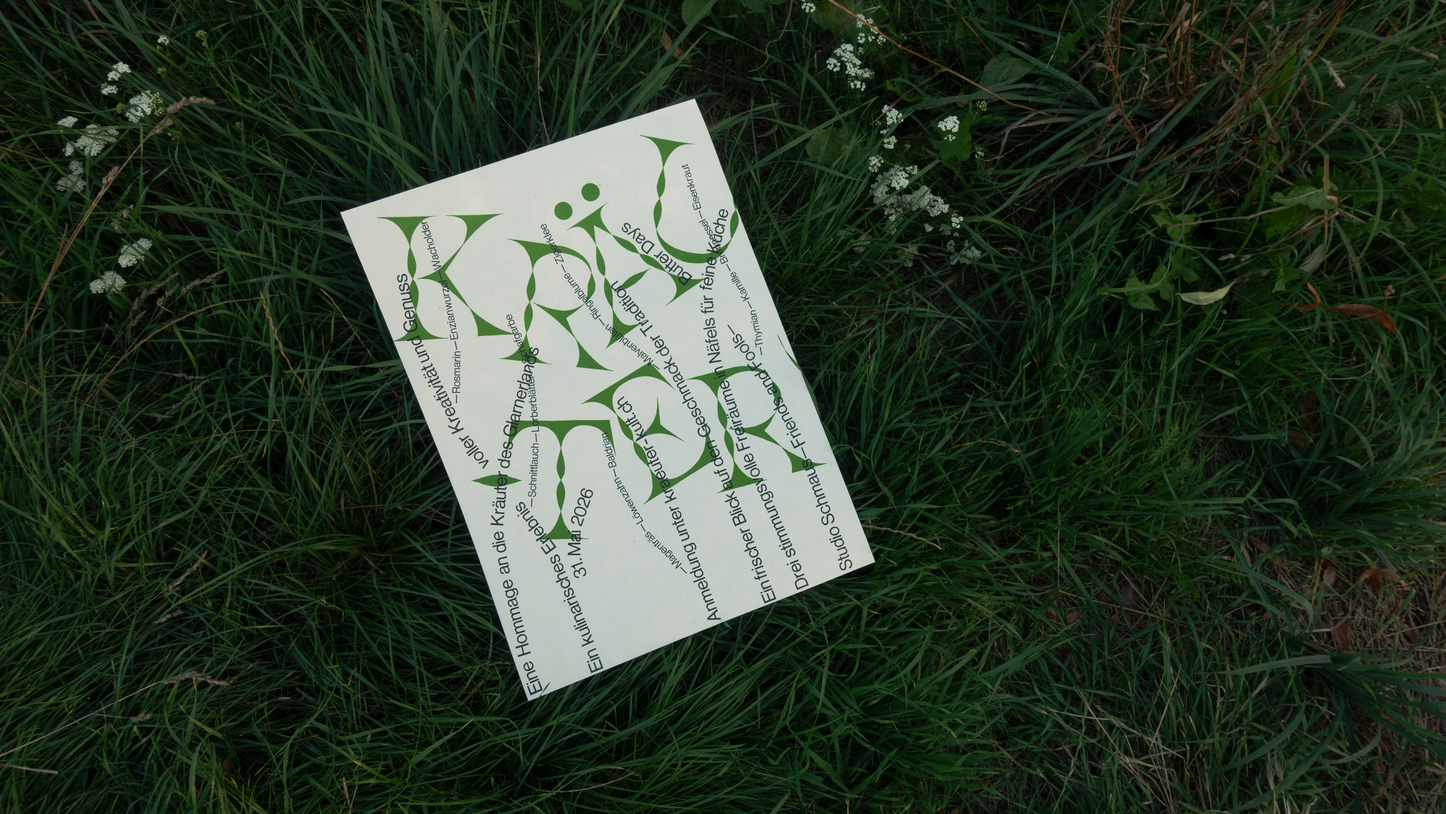
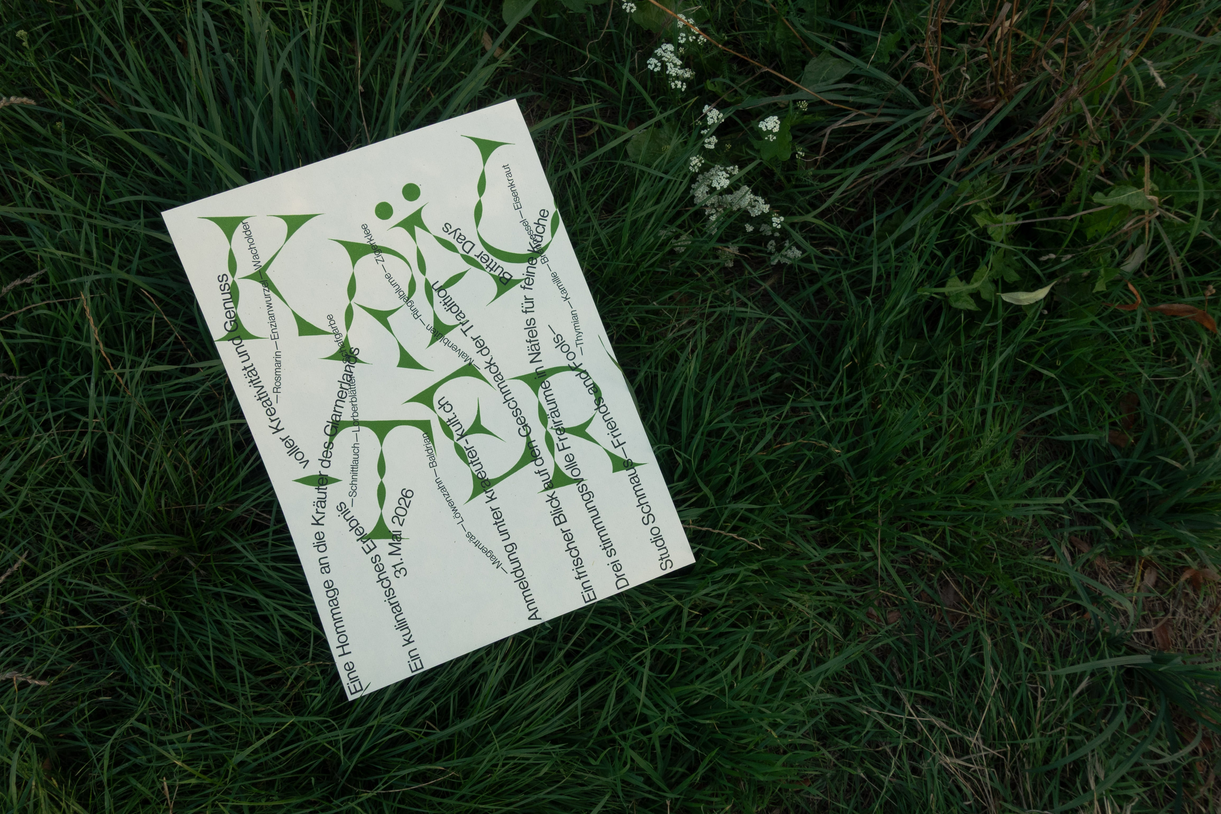
video edit

diff --git a/src/components/detail/StripImage.tsx b/src/components/detail/StripImage.tsx
@@ -2,6 +2,7 @@ import { useEffect, useRef, useState, type CSSProperties, type MouseEvent } from
 import { motion } from "framer-motion";
 import type { ImageSize } from "../../types/project";
 import { useFallbackSrc } from "../../hooks/useFallbackSrc";
+import { useLoopFrom } from "../../hooks/useLoopFrom";
 import { useIsLandscapePhone, useIsMobile } from "../../hooks/useIsMobile";
 import {
   detailFillHeight,
@@ -33,6 +34,8 @@ interface StripImageProps {
   isVideo: boolean;
   // A video with sound: gets a toggle beneath it to unmute.
   hasAudio?: boolean;
+  // Video only: seconds where it opens and loops back to (useLoopFrom).
+  start?: number;
   // Play the page-entrance rise from the bottom on mount.
   rise: boolean;
   // Fires once the media knows its own dimensions (loaded / metadata).
@@ -44,7 +47,7 @@ interface StripImageProps {
   onTap?: () => void;
 }
 
-export function StripImage({ index, src: preferred, original, alt, size, focus = 50, largest, isVideo, hasAudio = false, rise, onReady, aspect, placeholder, focused = false, onTap }: StripImageProps) {
+export function StripImage({ index, src: preferred, original, alt, size, focus = 50, largest, isVideo, hasAudio = false, start = 0, rise, onReady, aspect, placeholder, focused = false, onTap }: StripImageProps) {
   // A phone held sideways sizes its images like desktop: a share of the strip
   // height (its pager shows the desktop metadata band beneath, see
   // ProjectPager), so nothing fills the screen.
@@ -53,6 +56,9 @@ export function StripImage({ index, src: preferred, original, alt, size, focus =
   const isPhonePortrait = isMobile && !isLandscapePhone;
   const { src, isOriginal, fallBack } = useFallbackSrc(preferred, original);
   const onError = isOriginal ? undefined : fallBack;
+  const videoRef = useRef<HTMLVideoElement>(null);
+  // The sound video handles its own start (SoundVideo).
+  useLoopFrom(videoRef, isVideo && !hasAudio ? start : 0, src);
   const [loaded, setLoaded] = useState(false);
   const handleReady = () => {
     setLoaded(true);
@@ -129,6 +135,7 @@ export function StripImage({ index, src: preferred, original, alt, size, focus =
           src={src}
           poster={placeholder}
           alt={alt}
+          start={start}
           inset={isLeadingMobileImage}
           fit={crops ? { objectFit: "cover", objectPosition: position } : undefined}
           onReady={handleReady}
@@ -142,12 +149,13 @@ export function StripImage({ index, src: preferred, original, alt, size, focus =
     return (
       <motion.video
         {...motionProps}
+        ref={videoRef}
         className={imageClass}
         src={src}
         poster={placeholder}
         aria-label={alt}
         muted
-        loop
+        loop={!start}
         autoPlay
         playsInline
         onLoadedMetadata={handleReady}
@@ -178,6 +186,7 @@ interface SoundVideoProps {
   src: string;
   poster?: string;
   alt: string;
+  start: number;
   inset: boolean;
   // The wrapper's crop (StripImage's cropped first image), for the video.
   fit?: CSSProperties;
@@ -185,9 +194,10 @@ interface SoundVideoProps {
   onError?: () => void;
 }
 
-function SoundVideo({ src, poster, alt, inset, fit, onReady, onError }: SoundVideoProps) {
+function SoundVideo({ src, poster, alt, start, inset, fit, onReady, onError }: SoundVideoProps) {
   const videoRef = useRef<HTMLVideoElement>(null);
   const [muted, setMuted] = useState(true);
+  useLoopFrom(videoRef, start, src);
 
   useEffect(() => {
     const onOther = (event: Event) => {
@@ -211,9 +221,9 @@ function SoundVideo({ src, poster, alt, inset, fit, onReady, onError }: SoundVid
     const next = !muted;
     if (!next) {
       // Unmuting is the user's tap, so playback is allowed; start from the top
-      // so the soundtrack is heard from its beginning.
+      // (or the video's set start) so the soundtrack is heard from there.
       video.muted = false;
-      video.currentTime = 0;
+      video.currentTime = start < video.duration ? start : 0;
       void video.play().catch(() => {});
       window.dispatchEvent(new CustomEvent(SOUND_EVENT, { detail: video }));
     }
@@ -230,7 +240,7 @@ function SoundVideo({ src, poster, alt, inset, fit, onReady, onError }: SoundVid
         poster={poster}
         aria-label={alt}
         muted
-        loop
+        loop={!start}
         autoPlay
         playsInline
         onLoadedMetadata={onReady}

diff --git a/src/components/grid/GridImage.tsx b/src/components/grid/GridImage.tsx
@@ -1,6 +1,7 @@
 import { useEffect, useRef, useState, type CSSProperties } from "react";
 import { motion } from "framer-motion";
 import { useFallbackSrc } from "../../hooks/useFallbackSrc";
+import { useLoopFrom } from "../../hooks/useLoopFrom";
 import { gridImageHeight } from "../../utils/imageSize";
 import styles from "./GridImage.module.css";
 
@@ -25,6 +26,8 @@ interface GridImageProps {
   // Position among the project's grid images; sets its cascading height.
   rank: number;
   isVideo: boolean;
+  // Video only: seconds where it opens and loops back to (useLoopFrom).
+  start?: number;
   onActivate: (event: React.MouseEvent<HTMLElement>) => void;
   // Reports the media's natural aspect ratio once known, so the grid can lay
   // out its justified rows.
@@ -33,7 +36,7 @@ interface GridImageProps {
 
 // No layoutId here: opening a project doesn't morph the clicked image. The
 // detail strip rises in from the bottom on its own instead.
-export function GridImage({ src: preferred, original, poster, play, aspect, focus = 50, alt, rank, isVideo, onActivate, onAspect: reportUp }: GridImageProps) {
+export function GridImage({ src: preferred, original, poster, play, aspect, focus = 50, alt, rank, isVideo, start = 0, onActivate, onAspect: reportUp }: GridImageProps) {
   // Height goes through a CSS variable so the mobile layout can override it.
   const style = {
     "--img-h": `${gridImageHeight(rank)}px`,
@@ -61,6 +64,7 @@ export function GridImage({ src: preferred, original, poster, play, aspect, focu
   const { src, isOriginal, fallBack } = useFallbackSrc(preferred, original);
   // A broken asset still needs a ratio, or the mobile layout would wait forever.
   const reportBroken = () => (isOriginal ? onAspect(1) : fallBack());
+  useLoopFrom(mediaRef, isVideo ? start : 0, src);
 
   // The poster has the video's proportions, so the layout needn't wait for
   // the video's own metadata. If it fails, onLoadedMetadata still reports.
@@ -96,7 +100,7 @@ export function GridImage({ src: preferred, original, poster, play, aspect, focu
         poster={poster}
         aria-label={alt}
         muted
-        loop
+        loop={!start}
         playsInline
         preload={poster ? "metadata" : "auto"}
         onClick={onActivate}

diff --git a/src/hooks/useLoopFrom.ts b/src/hooks/useLoopFrom.ts
@@ -1,0 +1,28 @@
+import { useEffect, type RefObject } from "react";
+
+// "Video start" (seconds) from the CMS: the video opens at that point and,
+// when it reaches the end, jumps back there instead of to 0:00. The native
+// `loop` attribute always restarts from the top, so videos with a start leave
+// it off (pass `loop={!start}`) and this restarts them on `ended`. A start at
+// or past the clip's end falls back to the beginning.
+export function useLoopFrom(ref: RefObject<HTMLVideoElement | null>, start: number, src: string) {
+  useEffect(() => {
+    const video = ref.current;
+    if (!video || !start) return;
+    const seek = () => {
+      video.currentTime = video.duration && start < video.duration ? start : 0;
+    };
+    const restart = () => {
+      seek();
+      void video.play().catch(() => {});
+    };
+    // Cached media can have its metadata before the listener is attached.
+    if (video.readyState >= 1) seek();
+    else video.addEventListener("loadedmetadata", seek, { once: true });
+    video.addEventListener("ended", restart);
+    return () => {
+      video.removeEventListener("loadedmetadata", seek);
+      video.removeEventListener("ended", restart);
+    };
+  }, [ref, start, src]);
+}

diff --git a/src/data/projects.ts b/src/data/projects.ts
@@ -91,11 +91,17 @@ function clampFocus(value: unknown): number {
   return Number.isFinite(n) ? Math.min(100, Math.max(0, n)) : 50;
 }
 
+// "Video start" in seconds; empty or invalid means from the beginning.
+function clampStart(value: unknown): number {
+  const n = Number(value);
+  return Number.isFinite(n) && n > 0 ? n : 0;
+}
+
 function toImage(entry: unknown): ProjectImage | null {
   // Legacy entries were plain path strings; current entries are objects.
   if (typeof entry === "string") {
     const src = normalizeSrc(entry);
-    return { ...withCopies(src, isVideo(src)), size: clampImageSize(undefined), focus: clampFocus(undefined), hideInGrid: false, alt: "" };
+    return { ...withCopies(src, isVideo(src)), size: clampImageSize(undefined), focus: clampFocus(undefined), hideInGrid: false, alt: "", start: 0 };
   }
   if (entry && typeof entry === "object") {
     const e = entry as Record<string, unknown>;
@@ -115,6 +121,7 @@ function toImage(entry: unknown): ProjectImage | null {
       focus: clampFocus(e.focus),
       hideInGrid: Boolean(e.hideInGrid),
       alt: String(e.alt ?? ""),
+      start: clampStart(e.start),
     };
   }
   return null;

diff --git a/src/components/detail/ProjectPager.tsx b/src/components/detail/ProjectPager.tsx
@@ -400,6 +400,7 @@ export function ProjectPager({
                       largest={largest}
                       isVideo={img.isVideo}
                       hasAudio={img.hasAudio}
+                      start={img.start}
                       rise={rise}
                       focused={focused}
                       onTap={copy || isLandscapePhone ? undefined : () => toggleFocus(project.slug, i)}

diff --git a/src/types/project.ts b/src/types/project.ts
@@ -25,6 +25,9 @@ export interface ProjectImage {
   // A video with an audible soundtrack (found at build time); the detail
   // strip shows a sound toggle beneath it.
   hasAudio: boolean;
+  // Videos only: seconds into the clip where playback opens and each loop
+  // restarts (useLoopFrom). 0 = the beginning, as a plain loop.
+  start: number;
 }
 
 export interface Frontmatter {

diff --git a/src/components/grid/GridItem.tsx b/src/components/grid/GridItem.tsx
@@ -96,6 +96,7 @@ export function GridItem({ project, cellWidths, labelWidth, onAspect, playVideos
           alt={img.alt || `${project.title} — ${i + 1}`}
           rank={rank}
           isVideo={img.isVideo}
+          start={img.start}
           onActivate={go}
           onAspect={(aspect) => onAspect(key, aspect)}
         />

diff --git a/src/components/detail/ScrollStrip.tsx b/src/components/detail/ScrollStrip.tsx
@@ -63,6 +63,7 @@ export function ScrollStrip({
             largest={largest}
             isVideo={img.isVideo}
             hasAudio={img.hasAudio}
+            start={img.start}
             rise={intro}
           />
         ))}

diff --git a/AGENTS.md b/AGENTS.md
@@ -83,7 +83,7 @@ Styling is **CSS Modules** (`*.module.css`) plus shared CSS variables in [src/st
 - **Image sizing:** width follows the image's natural aspect ratio; only height scales, via a size (1–5) → `imageHeight()`. On the index the size cascades per project (`gridImageHeight(rank)`): the first grid image is 5, each next one a step smaller down to 1, restarting for every project. The `size` field only drives the detail strip. Shared transition timings (the `[0.22, 1, 0.36, 1]` easing, `ZOOM_TRANSITION` at 0.6s, the rise) live once in [src/utils/motion.ts](src/utils/motion.ts). Every image stores an explicit `size` in its frontmatter. New images saved without one are filled by [scripts/assign-sizes.mjs](scripts/assign-sizes.mjs) (`npm run sizes`), which the deploy workflow runs and commits back to `main`: a slug-seeded mix of 2–5 where no two neighbours match. Existing 1–5 values are never touched, so after that they are adjusted by hand in the CMS. Until the fill lands, `clampImageSize()` renders a missing size as 3.
 - **Mobile detail (ProjectPager):** the strip holds only media; the first image fills the screen, cropped (`object-fit: cover`) around its `focus` value ("Crop focus" in the CMS, 0–100 across, default 50), and in the focused view it uncrops by easing its width and height together (needs a build-time `aspect`; without one it keeps its natural width). Tapping an image opens the project's focused view: every image eases (a CSS height transition, with the strip scrolled in step each frame) to one shared height, `detailFocusHeight()` in [src/utils/imageSize.ts](src/utils/imageSize.ts) (the `--focus-h` CSS variable: 60svh, 55svh on a sideways phone; shrunk to the screen width for wide images), and the description + type/year fade in under the title in the bottom caption, which glides up to make room. Tapping again or moving to another project closes it. The focused caption's `max-height` in `ProjectPager.module.css` reads the same variable.
 - **Sideways phones** (landscape, ≤500px tall) get the mobile layout everywhere — the `@media` blocks repeat `useIsMobile`'s query, so change both together. With the extra width, index rows take up to 6 images, the logo row stops at 40% of the height, and the loading screen keeps its unrotated logo. On project pages the pager's swipes, nudge and loop stay, but each page shows the desktop layout: a strip over two thirds of the height (desktop image sizing, no full-screen first image) and the desktop metadata band beneath it (`MetaContent` from `DetailMeta.tsx`, `.paged` in its CSS), always visible, so tap-to-focus is off there. The ↓ next arrow sits bottom-left and the theme switch always shows.
-- **Video support:** assets can be video; use `isVideo(src)` rather than assuming `<img>`. On the index, a video with a poster doesn't load or play until the reveal starts; the loading screen waits on its poster instead. A video can be an uploaded file or an external `videoUrl` (see the data layer above) — by the time it reaches a component the source is already resolved into `ProjectImage.src` with `isVideo` set, so components don't need to know which it was.
+- **Video support:** assets can be video; use `isVideo(src)` rather than assuming `<img>`. On the index, a video with a poster doesn't load or play until the reveal starts; the loading screen waits on its poster instead. A video can be an uploaded file or an external `videoUrl` (see the data layer above) — by the time it reaches a component the source is already resolved into `ProjectImage.src` with `isVideo` set, so components don't need to know which it was. An entry's `start` ("Video start", seconds) makes the video open there and loop back to that point instead of 0:00: [src/hooks/useLoopFrom.ts](src/hooks/useLoopFrom.ts) handles it, and such videos drop the native `loop` attribute.
 - **CMS coupling:** [.pages.yml](.pages.yml) defines the content schema for Pages CMS. If you add/rename a frontmatter field, update `.pages.yml`, the `Frontmatter` type, and `toProject()` together, or the CMS and the site will drift. Project order lives in `content/order.md`, not in the project files; renaming a project's file means updating its entry there (it otherwise drops to the end).
 
 ## Deployment

diff --git a/content/projects/Language of Fragment.md b/content/projects/Language of Fragment.md
@@ -12,6 +12,7 @@ images:
     size: "3"
     hideInGrid: false
   - video: /images/uploads/1_fragments/BODEGA_SOUND.mp4
+    start: 9.5
     size: "5"
     hideInGrid: false
 ---
